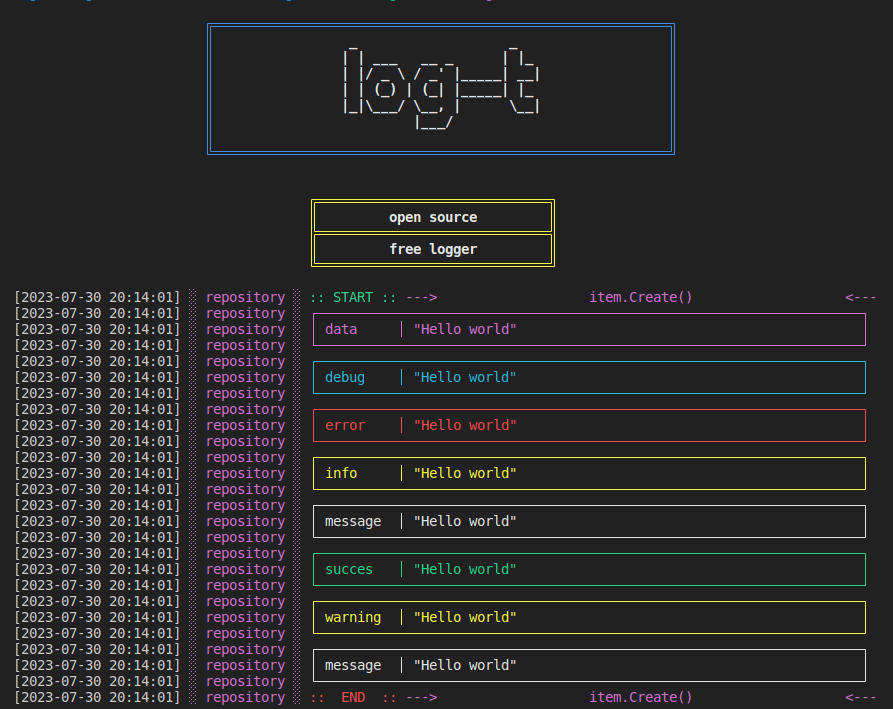
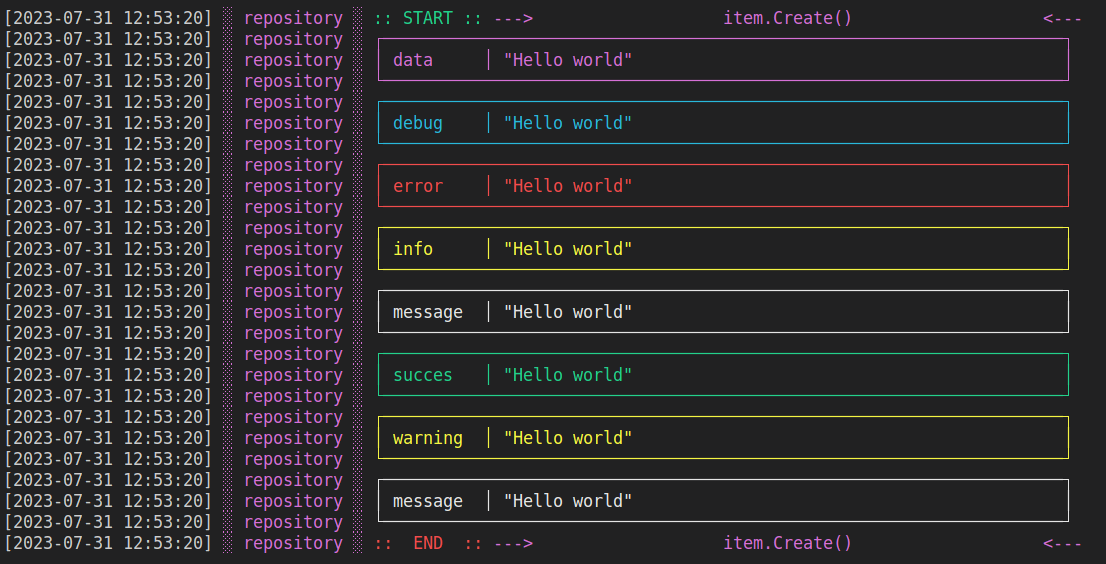
readme change

diff --git a/main.go b/main.go
@@ -1,4 +1,4 @@
-package logt
+package main
 
 import (
 	"encoding/json"
@@ -349,4 +349,26 @@ func checker(str []any) {
 	if len(str) == 0 {
 		panic("logt: empty message")
 	}
+}
+
+func main() {
+	// Create a new logger
+	// nameSpace: The name of the logger
+	// true: Enable show intro message
+	l := NewLogData("repository", true)
+
+	// Initialize writer logger
+	w := l.NewWriter("item.Create()")
+	defer w.Close()
+
+	// Write a message
+	w.Data("Hello world")
+	w.Debug("Hello world")
+	w.Error("Hello world")
+	w.Info("Hello world")
+	w.Msg("Hello world")
+	w.Succes("Hello world")
+	w.Warning("Hello world")
+	w.Write("Hello world")
+
 }

diff --git a/README.md b/README.md
@@ -30,7 +30,7 @@ func main() {
 ```
 
 # Output
-![Output](image.png)
+![Alt text](image.png)
 
 # TODO
 
